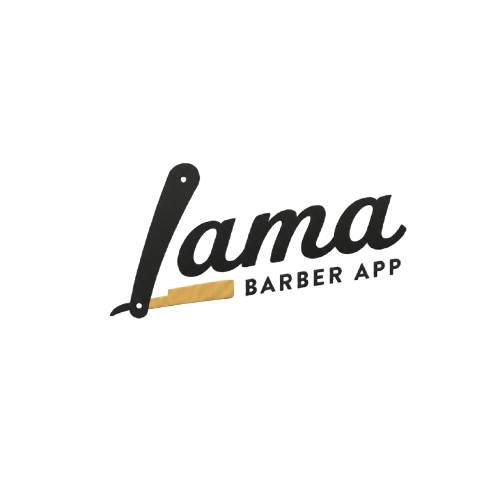
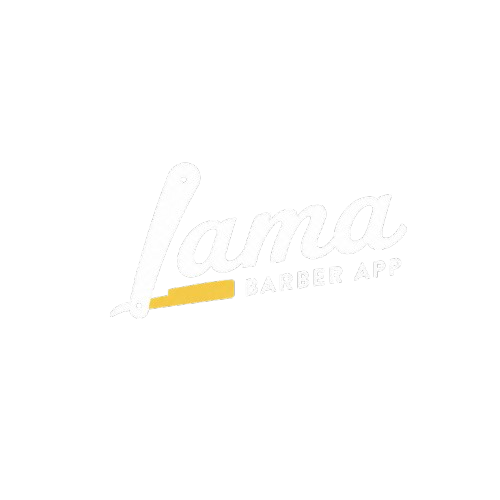
corregge date e migliora branding Lama

Changed region(s): [[0.21, 0.33, 0.81, 0.66]]

diff --git a/src/lib/format.ts b/src/lib/format.ts
@@ -1,11 +1,29 @@
 import type { BookingStatus } from "@/types";
 
 export const euro = (value?: string | number | null) => value == null ? "Prezzo su richiesta" : new Intl.NumberFormat("it-IT", { style: "currency", currency: "EUR" }).format(Number(value));
-export const italianDate = (value: string, options?: Intl.DateTimeFormatOptions) => new Intl.DateTimeFormat("it-IT", options ?? { weekday: "long", day: "numeric", month: "long" }).format(new Date(`${value}T12:00:00`));
+export function normalizeBookingDate(value: string) {
+  const raw = String(value).trim();
+  if (/^\d{4}-\d{2}-\d{2}$/.test(raw)) return raw;
+  const leadingDate = raw.match(/^(\d{4}-\d{2}-\d{2})/)?.[1];
+  const hasExplicitTimezone = /(?:Z|[+-]\d{2}:?\d{2})$/i.test(raw);
+  if (hasExplicitTimezone) {
+    const parsable = raw.replace(/(\.\d{3})\d+(?=Z$|[+-]\d{2}:?\d{2}$)/i, "$1");
+    const instant = new Date(parsable);
+    if (!Number.isNaN(instant.getTime())) {
+      const parts = new Intl.DateTimeFormat("en-GB", { timeZone: "Europe/Rome", year: "numeric", month: "2-digit", day: "2-digit" }).formatToParts(instant);
+      const part = (type: Intl.DateTimeFormatPartTypes) => parts.find((item) => item.type === type)?.value;
+      const year = part("year"); const month = part("month"); const day = part("day");
+      if (year && month && day) return `${year}-${month}-${day}`;
+    }
+  }
+  return leadingDate ?? raw;
+}
+
+export const italianDate = (value: string, options?: Intl.DateTimeFormatOptions) => new Intl.DateTimeFormat("it-IT", options ?? { weekday: "long", day: "numeric", month: "long" }).format(new Date(`${normalizeBookingDate(value)}T12:00:00`));
 export const fullName = (person?: { name?: string; surname?: string | null; first_name?: string; last_name?: string | null } | null) => person ? [person.name ?? person.first_name, person.surname ?? person.last_name].filter(Boolean).join(" ") : "";
 export const normalizePhone = (value: string) => value.replace(/\D/g, "");
 export const bookingStatus: Record<BookingStatus, string> = { pending: "In attesa", confirmed: "Confermata", completed: "Completata", cancelled: "Annullata", no_show: "Non presentato" };
-export const bookingDate = (date: string, time: string) => new Date(`${date}T${time.length === 5 ? `${time}:00` : time}`);
+export const bookingDate = (date: string, time: string) => new Date(`${normalizeBookingDate(date)}T${time.length === 5 ? `${time}:00` : time}`);
 
 const API_URL = (process.env.NEXT_PUBLIC_API_URL ?? "https://gaetabet.it/api").replace(/\/api\/?$/, "");
 export function imageUrl(value?: string | null) {

diff --git a/src/components/layout/app-shell.tsx b/src/components/layout/app-shell.tsx
@@ -11,6 +11,7 @@ import { useAuth } from "@/providers/auth-provider";
 import { ServiceWorkerRegistration } from "@/components/pwa/service-worker";
 import { PushControls } from "@/components/profile/push-panel";
 import { FavoritesMenu } from "@/components/products/favorites-menu";
+import { BrandLoader } from "@/components/ui/brand-loader";
 
 const items = [
   { href: "/home", label: "Home", icon: Home },
@@ -43,13 +44,13 @@ export function AppShell({ children }: { children: React.ReactNode }) {
     try { await logout(); } catch { setLoggingOut(false); }
   }
 
-  if (loading || !user) return <main className="grid min-h-dvh place-items-center"><div className="size-9 animate-spin rounded-full border-2 border-amber-300 border-t-transparent" /><span className="sr-only">Verifica sessione</span></main>;
+  if (loading || !user) return <BrandLoader label="Prepariamo la tua esperienza" />;
 
   return <div className="mx-auto min-h-dvh w-full max-w-2xl bg-zinc-950/30 shadow-2xl">
     <ServiceWorkerRegistration />
     <header className="sticky top-0 z-30 bg-zinc-950/75 pt-[env(safe-area-inset-top)] backdrop-blur-2xl">
       <div className="flex h-[4.25rem] items-center justify-between gap-3 px-5">
-        <Link href="/home" aria-label="Lama, vai alla home" className="relative h-10 w-[6.5rem] shrink-0 overflow-hidden"><Image src="/lama-logo.png" alt="Lama Barber App" fill sizes="104px" className="scale-[1.65] object-contain brightness-125 contrast-110" /></Link>
+        <Link href="/home" aria-label="Lama, vai alla home" className="relative h-11 w-[7.25rem] shrink-0 overflow-hidden"><Image src="/lama-logo.png" alt="Lama Barber App" fill sizes="116px" className="scale-[1.65] object-contain drop-shadow-[0_5px_14px_rgba(200,164,91,.12)]" /></Link>
         <div className="flex shrink-0 items-center gap-1.5">
           <FavoritesMenu open={favoritesOpen} onOpen={() => { setNotificationsOpen(false); setFavoritesOpen(true); }} onClose={() => setFavoritesOpen(false)} />
           <button onClick={() => { setFavoritesOpen(false); setNotificationsOpen(true); }} aria-label="Attiva o disattiva notifiche" aria-haspopup="dialog" className="grid size-10 place-items-center rounded-full bg-white/[.055] text-zinc-200 shadow-lg transition hover:bg-white/10"><Bell className="size-[1.15rem]" /></button>

diff --git a/src/lib/api/endpoints.ts b/src/lib/api/endpoints.ts
@@ -1,4 +1,5 @@
 import { api, ApiError } from "./client";
+import { normalizeBookingDate } from "@/lib/format";
 import type { AppConfig, AuthResponse, AvailabilityResponse, Booking, BookingsResponse, LoyaltyResponse, Product, ProductsResponse, PushConfig, RedeemRewardResponse, Service, Staff, User } from "@/types";
 
 type RawBooking = Omit<Booking, "staff" | "service"> & {
@@ -17,7 +18,7 @@ function normalizeBooking(booking: RawBooking): Booking {
   const service = typeof booking.service === "string"
     ? { id: booking.service_id ?? `service-${booking.id}`, name: booking.service, duration: Number(booking.service_duration ?? 0), price: booking.service_price }
     : booking.service;
-  return { ...booking, date: String(booking.date).slice(0, 10), time: String(booking.time).slice(0, 5), staff, service, phone: booking.phone ?? booking.staff_phone };
+  return { ...booking, date: normalizeBookingDate(String(booking.date)), time: String(booking.time).slice(0, 5), staff, service, phone: booking.phone ?? booking.staff_phone };
 }
 
 function normalizeBookings(bookings: RawBooking[]) { return bookings.map(normalizeBooking); }
@@ -45,7 +46,10 @@ export const endpoints = {
     }
     return { bookings: normalizeBookings(response.data ?? []) } satisfies BookingsResponse;
   },
-  createBooking: (body: { staff_id: string | number; service_id: string | number; date: string; time: string }) => api<{ status?: boolean; booking?: Booking; message?: string }>("/bookings", { method: "POST", body }),
+  createBooking: async (body: { staff_id: string | number; service_id: string | number; date: string; time: string }) => {
+    const response = await api<{ status?: boolean; booking?: RawBooking; message?: string }>("/bookings", { method: "POST", body });
+    return { ...response, booking: response.booking ? normalizeBooking(response.booking) : undefined };
+  },
   cancelBooking: (id: string | number) => api<{ status?: boolean; message?: string }>(`/bookings/${id}/cancel`, { method: "POST" }),
   products: () => api<ProductsResponse>("/products"),
   favorites: () => api<Product[] | ProductsResponse | { favorites: Product[] }>("/favorites"),

diff --git a/src/components/auth/auth-page.tsx b/src/components/auth/auth-page.tsx
@@ -1,3 +1,3 @@
 import Image from "next/image";
 import { AuthForm } from "./auth-form";
-export function AuthPage({ mode, title, description }: { mode: "login" | "register" | "forgot" | "reset"; title: string; description: string }) { return <main className="mx-auto flex min-h-dvh w-full max-w-md flex-col justify-center px-5 py-10"><div className="relative mb-7 h-20 w-44 overflow-hidden"><Image src="/lama-logo.png" alt="Lama Barber App" fill sizes="176px" className="scale-[1.55] object-contain brightness-125 contrast-110" /></div><section className="rounded-[2rem] border border-amber-300/10 bg-zinc-900/80 p-6 shadow-2xl backdrop-blur"><p className="text-xs font-semibold uppercase tracking-[.2em] text-amber-300">Area clienti Lama</p><h1 className="mt-3 text-3xl font-semibold tracking-tight">{title}</h1><p className="mb-7 mt-2 text-sm leading-6 text-zinc-400">{description}</p><AuthForm mode={mode} /></section></main>; }
+export function AuthPage({ mode, title, description }: { mode: "login" | "register" | "forgot" | "reset"; title: string; description: string }) { return <main className="mx-auto flex min-h-dvh w-full max-w-md flex-col justify-center px-5 py-10"><div className="relative mx-auto mb-5 h-28 w-64 overflow-hidden drop-shadow-[0_12px_32px_rgba(200,164,91,.12)]"><Image src="/lama-logo.png" alt="Lama Barber App" fill sizes="256px" className="scale-[1.55] object-contain" preload /></div><section className="rounded-[2rem] border border-amber-300/10 bg-zinc-900/80 p-6 shadow-2xl backdrop-blur"><p className="text-xs font-semibold uppercase tracking-[.2em] text-amber-300">Area clienti Lama</p><h1 className="mt-3 text-3xl font-semibold tracking-tight">{title}</h1><p className="mb-7 mt-2 text-sm leading-6 text-zinc-400">{description}</p><AuthForm mode={mode} /></section></main>; }

diff --git a/src/components/ui/brand-loader.tsx b/src/components/ui/brand-loader.tsx
@@ -1,0 +1,17 @@
+"use client";
+
+import { motion } from "motion/react";
+import Image from "next/image";
+
+export function BrandLoader({ label = "Apertura Lama…" }: { label?: string }) {
+  return <main className="relative grid min-h-dvh place-items-center overflow-hidden bg-[#0b0b0a]">
+    <motion.div aria-hidden className="absolute size-64 rounded-full bg-amber-300/10 blur-[80px]" animate={{ scale: [0.85, 1.15, 0.85], opacity: [.35, .75, .35] }} transition={{ duration: 2.4, repeat: Infinity, ease: "easeInOut" }} />
+    <div className="relative flex flex-col items-center">
+      <motion.div initial={{ opacity: 0, scale: .78, y: 12 }} animate={{ opacity: 1, scale: [1, 1.025, 1], y: 0 }} transition={{ opacity: { duration: .45 }, y: { duration: .55, ease: "easeOut" }, scale: { duration: 2.2, repeat: Infinity, ease: "easeInOut" } }} className="relative h-32 w-64 overflow-hidden drop-shadow-[0_14px_35px_rgba(200,164,91,.14)]">
+        <Image src="/lama-logo.png" alt="Lama Barber App" fill sizes="256px" className="scale-[1.55] object-contain" preload />
+      </motion.div>
+      <div className="mt-2 h-0.5 w-28 overflow-hidden rounded-full bg-white/8"><motion.div className="h-full w-1/2 rounded-full bg-amber-300" animate={{ x: ["-110%", "220%"] }} transition={{ duration: 1.25, repeat: Infinity, ease: "easeInOut" }} /></div>
+      <motion.p initial={{ opacity: 0 }} animate={{ opacity: [.45, .9, .45] }} transition={{ duration: 1.8, repeat: Infinity }} className="mt-4 text-[11px] font-medium uppercase tracking-[.24em] text-zinc-500">{label}</motion.p>
+    </div>
+  </main>;
+}

diff --git a/src/app/offline/page.tsx b/src/app/offline/page.tsx
@@ -1,3 +1,3 @@
 import Link from "next/link";
 import Image from "next/image";
-export default function OfflinePage() { return <main className="mx-auto flex min-h-dvh max-w-md flex-col items-center justify-center p-8 text-center"><div className="relative h-24 w-52 overflow-hidden"><Image src="/lama-logo.png" alt="Lama Barber App" fill sizes="208px" className="scale-[1.55] object-contain brightness-125 contrast-110" /></div><h1 className="mt-3 text-3xl font-semibold">Sei offline</h1><p className="mt-3 text-zinc-400">Riconnettiti per visualizzare dati sempre aggiornati e gestire le prenotazioni Lama.</p><Link href="/" className="mt-8 rounded-2xl bg-amber-300 px-6 py-3 font-semibold text-zinc-950">Riprova</Link></main>; }
+export default function OfflinePage() { return <main className="mx-auto flex min-h-dvh max-w-md flex-col items-center justify-center p-8 text-center"><div className="relative h-28 w-64 overflow-hidden"><Image src="/lama-logo.png" alt="Lama Barber App" fill sizes="256px" className="scale-[1.55] object-contain" /></div><h1 className="mt-3 text-3xl font-semibold">Sei offline</h1><p className="mt-3 text-zinc-400">Riconnettiti per visualizzare dati sempre aggiornati e gestire le prenotazioni Lama.</p><Link href="/" className="mt-8 rounded-2xl bg-amber-300 px-6 py-3 font-semibold text-zinc-950">Riprova</Link></main>; }

diff --git a/src/app/page.tsx b/src/app/page.tsx
@@ -1,3 +1,7 @@
 "use client";
-import { useEffect } from "react"; import { useRouter } from "next/navigation"; import { useAuth } from "@/providers/auth-provider";
-export default function Page() { const { user, loading } = useAuth(); const router = useRouter(); useEffect(() => { if (!loading) router.replace(user ? "/home" : "/login"); }, [loading, router, user]); return <main className="grid min-h-dvh place-items-center"><div className="text-center"><div className="mx-auto size-9 animate-spin rounded-full border-2 border-amber-300 border-t-transparent"/><p className="mt-4 text-sm text-zinc-400">Apertura Lama…</p></div></main>; }
+import { useEffect } from "react";
+import { useRouter } from "next/navigation";
+import { useAuth } from "@/providers/auth-provider";
+import { BrandLoader } from "@/components/ui/brand-loader";
+
+export default function Page() { const { user, loading } = useAuth(); const router = useRouter(); useEffect(() => { if (!loading) router.replace(user ? "/home" : "/login"); }, [loading, router, user]); return <BrandLoader />; }
